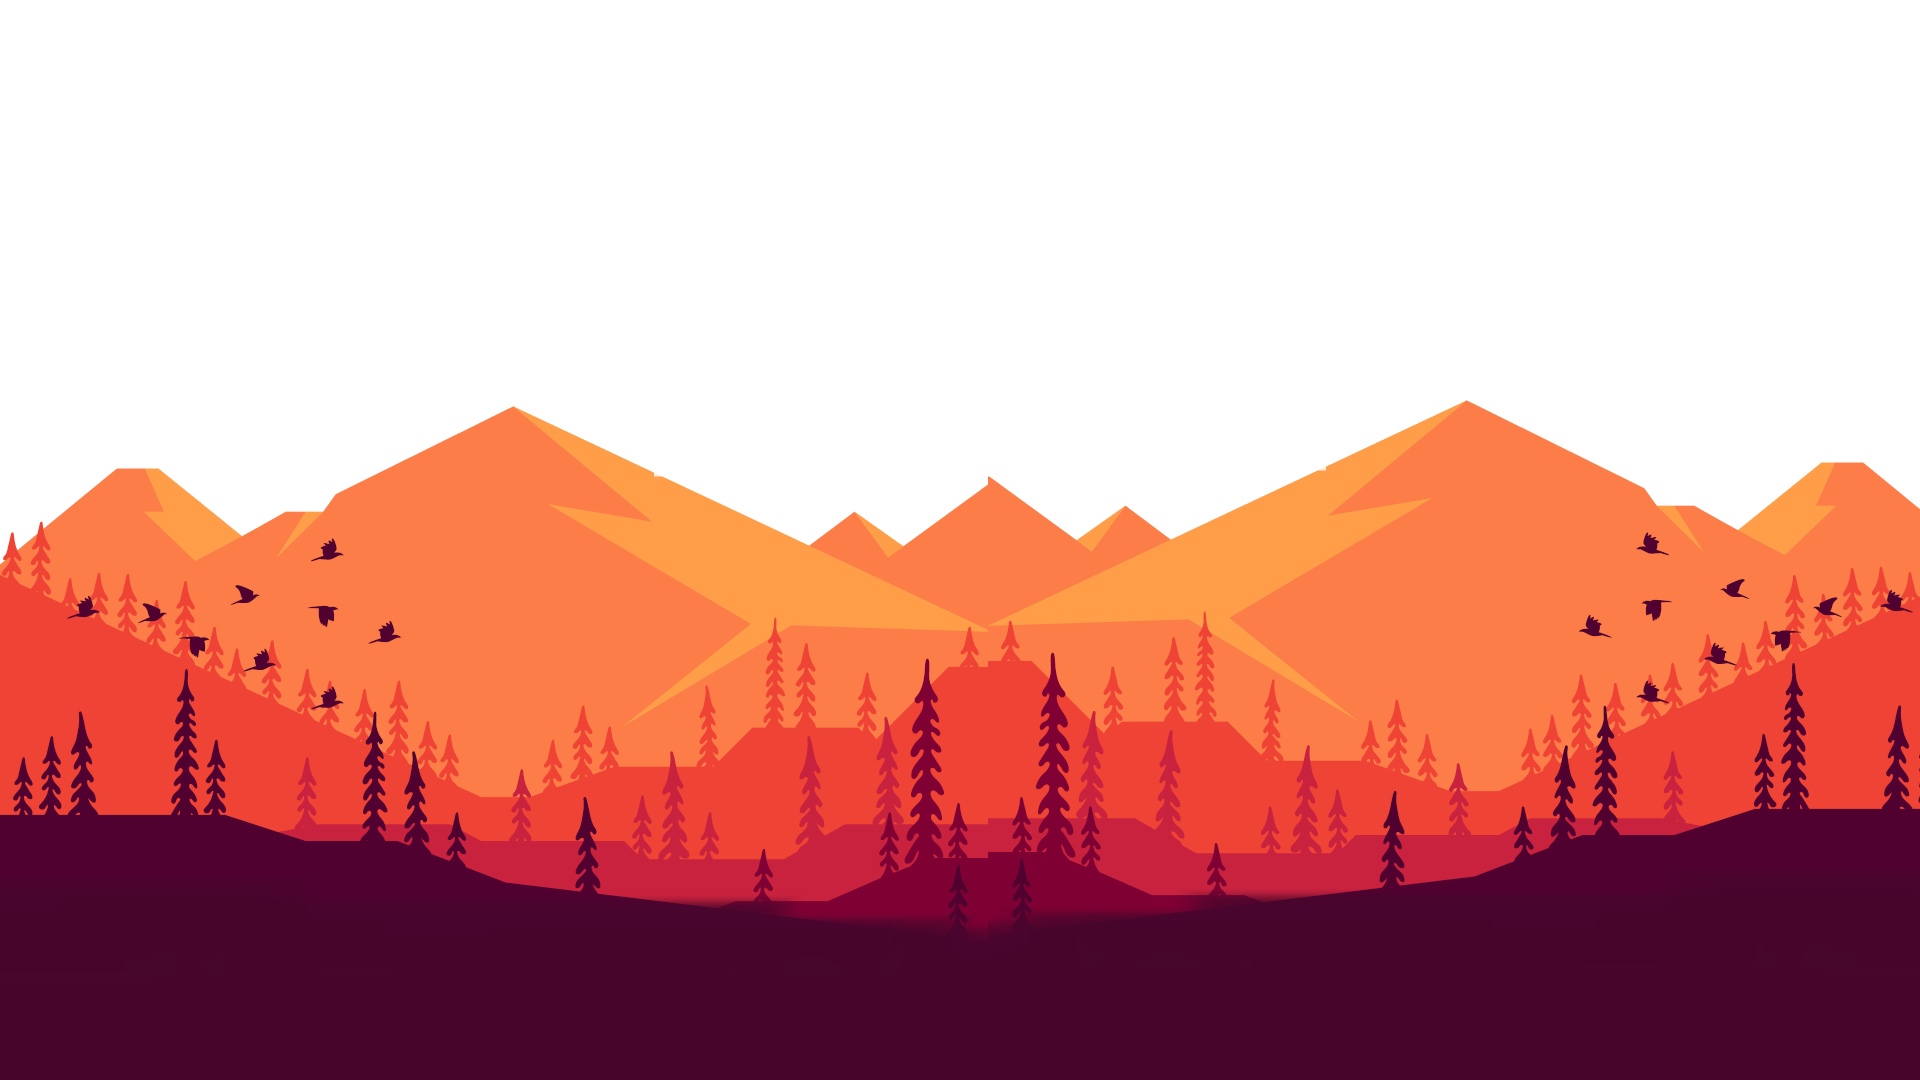
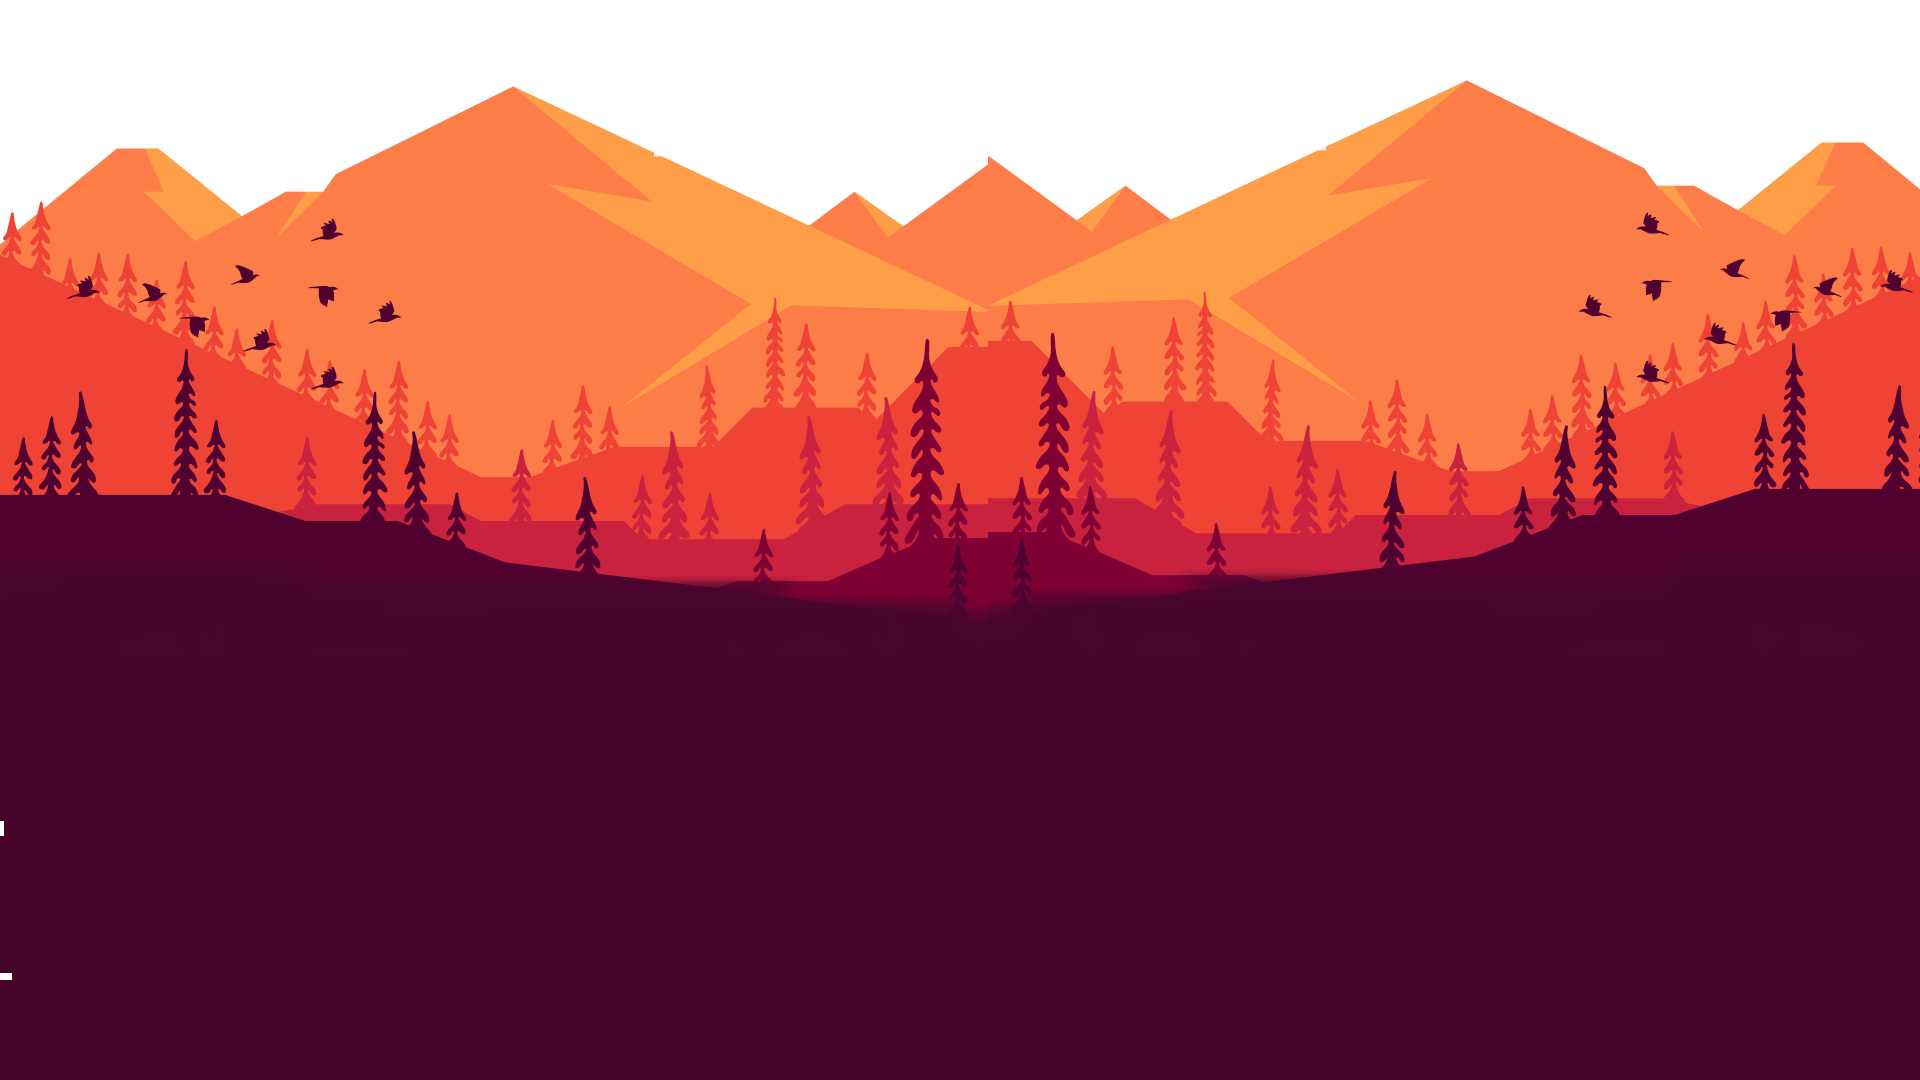
changing bg image

diff --git a/src/components/App/index.js b/src/components/App/index.js
@@ -5,7 +5,7 @@ import "./App.scss";
 import Header from "../Header/index";
 import Footer from '../Footer';
 import WeekDetail from '../WeekDetail';
-import sun from "../../images/sundark.png";
+import sun from "../../images/bigsun.png";
 import { Switch, Route} from 'react-router-dom';
 import DailyDetail from "../DailyDetail";
 
